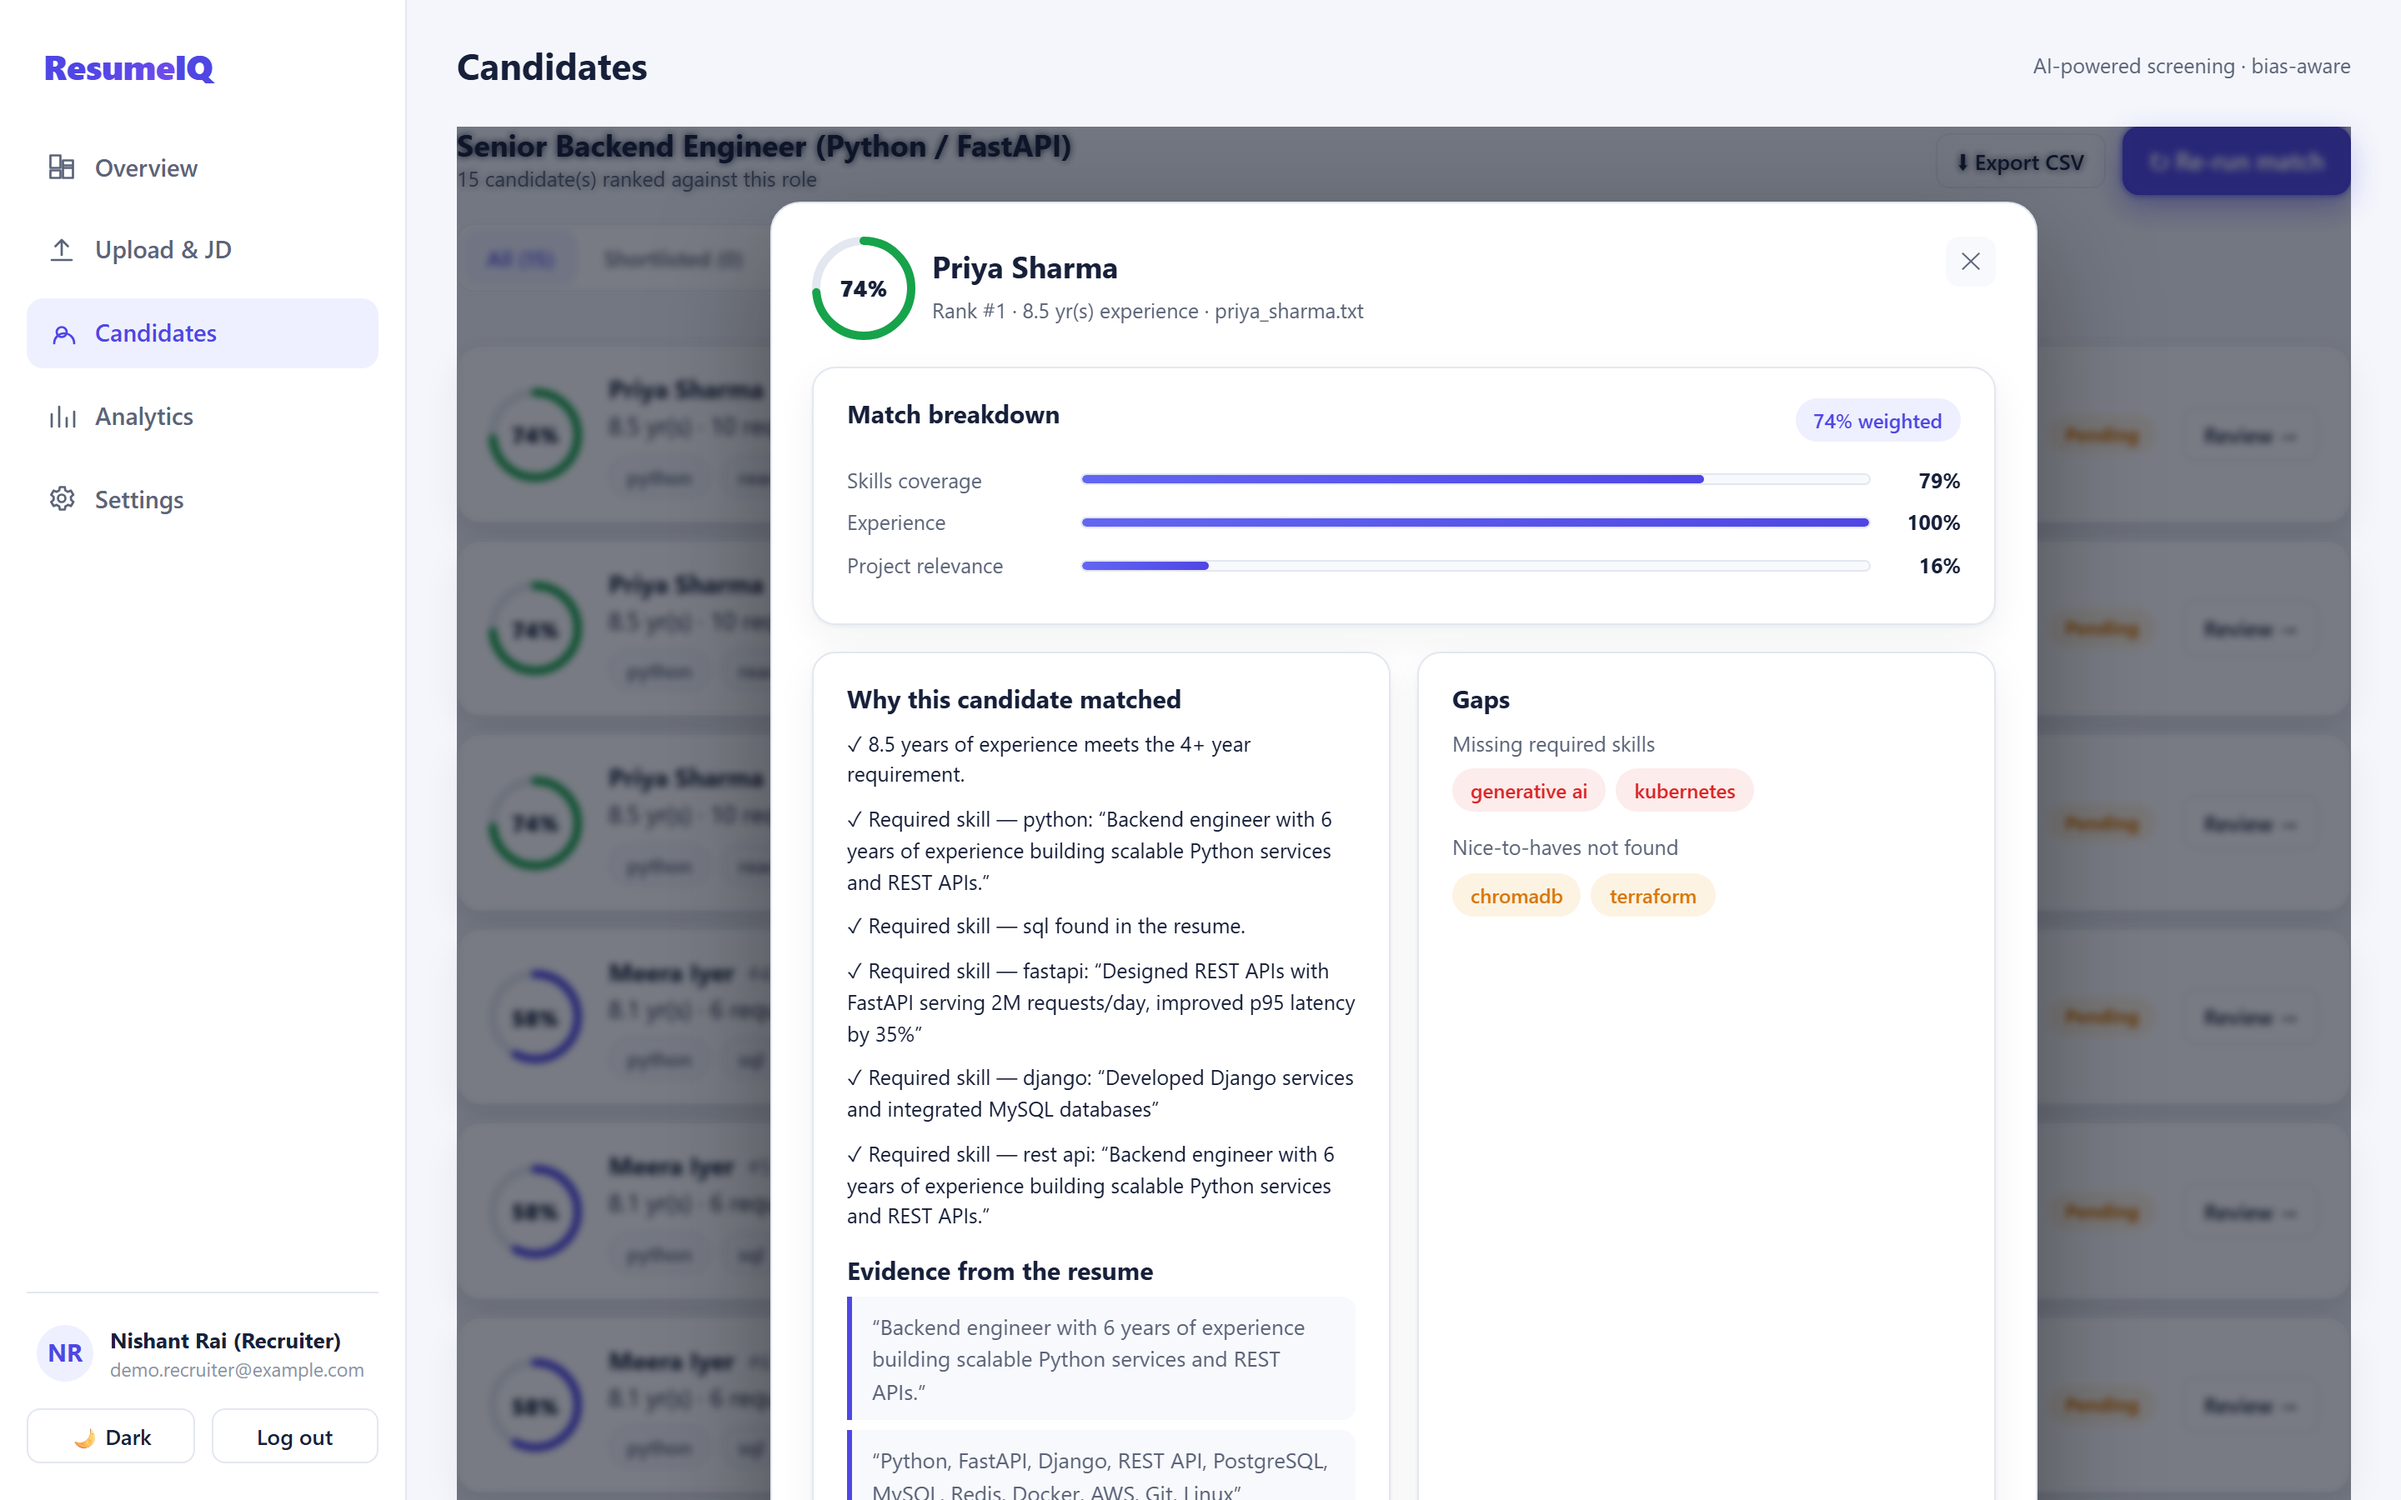
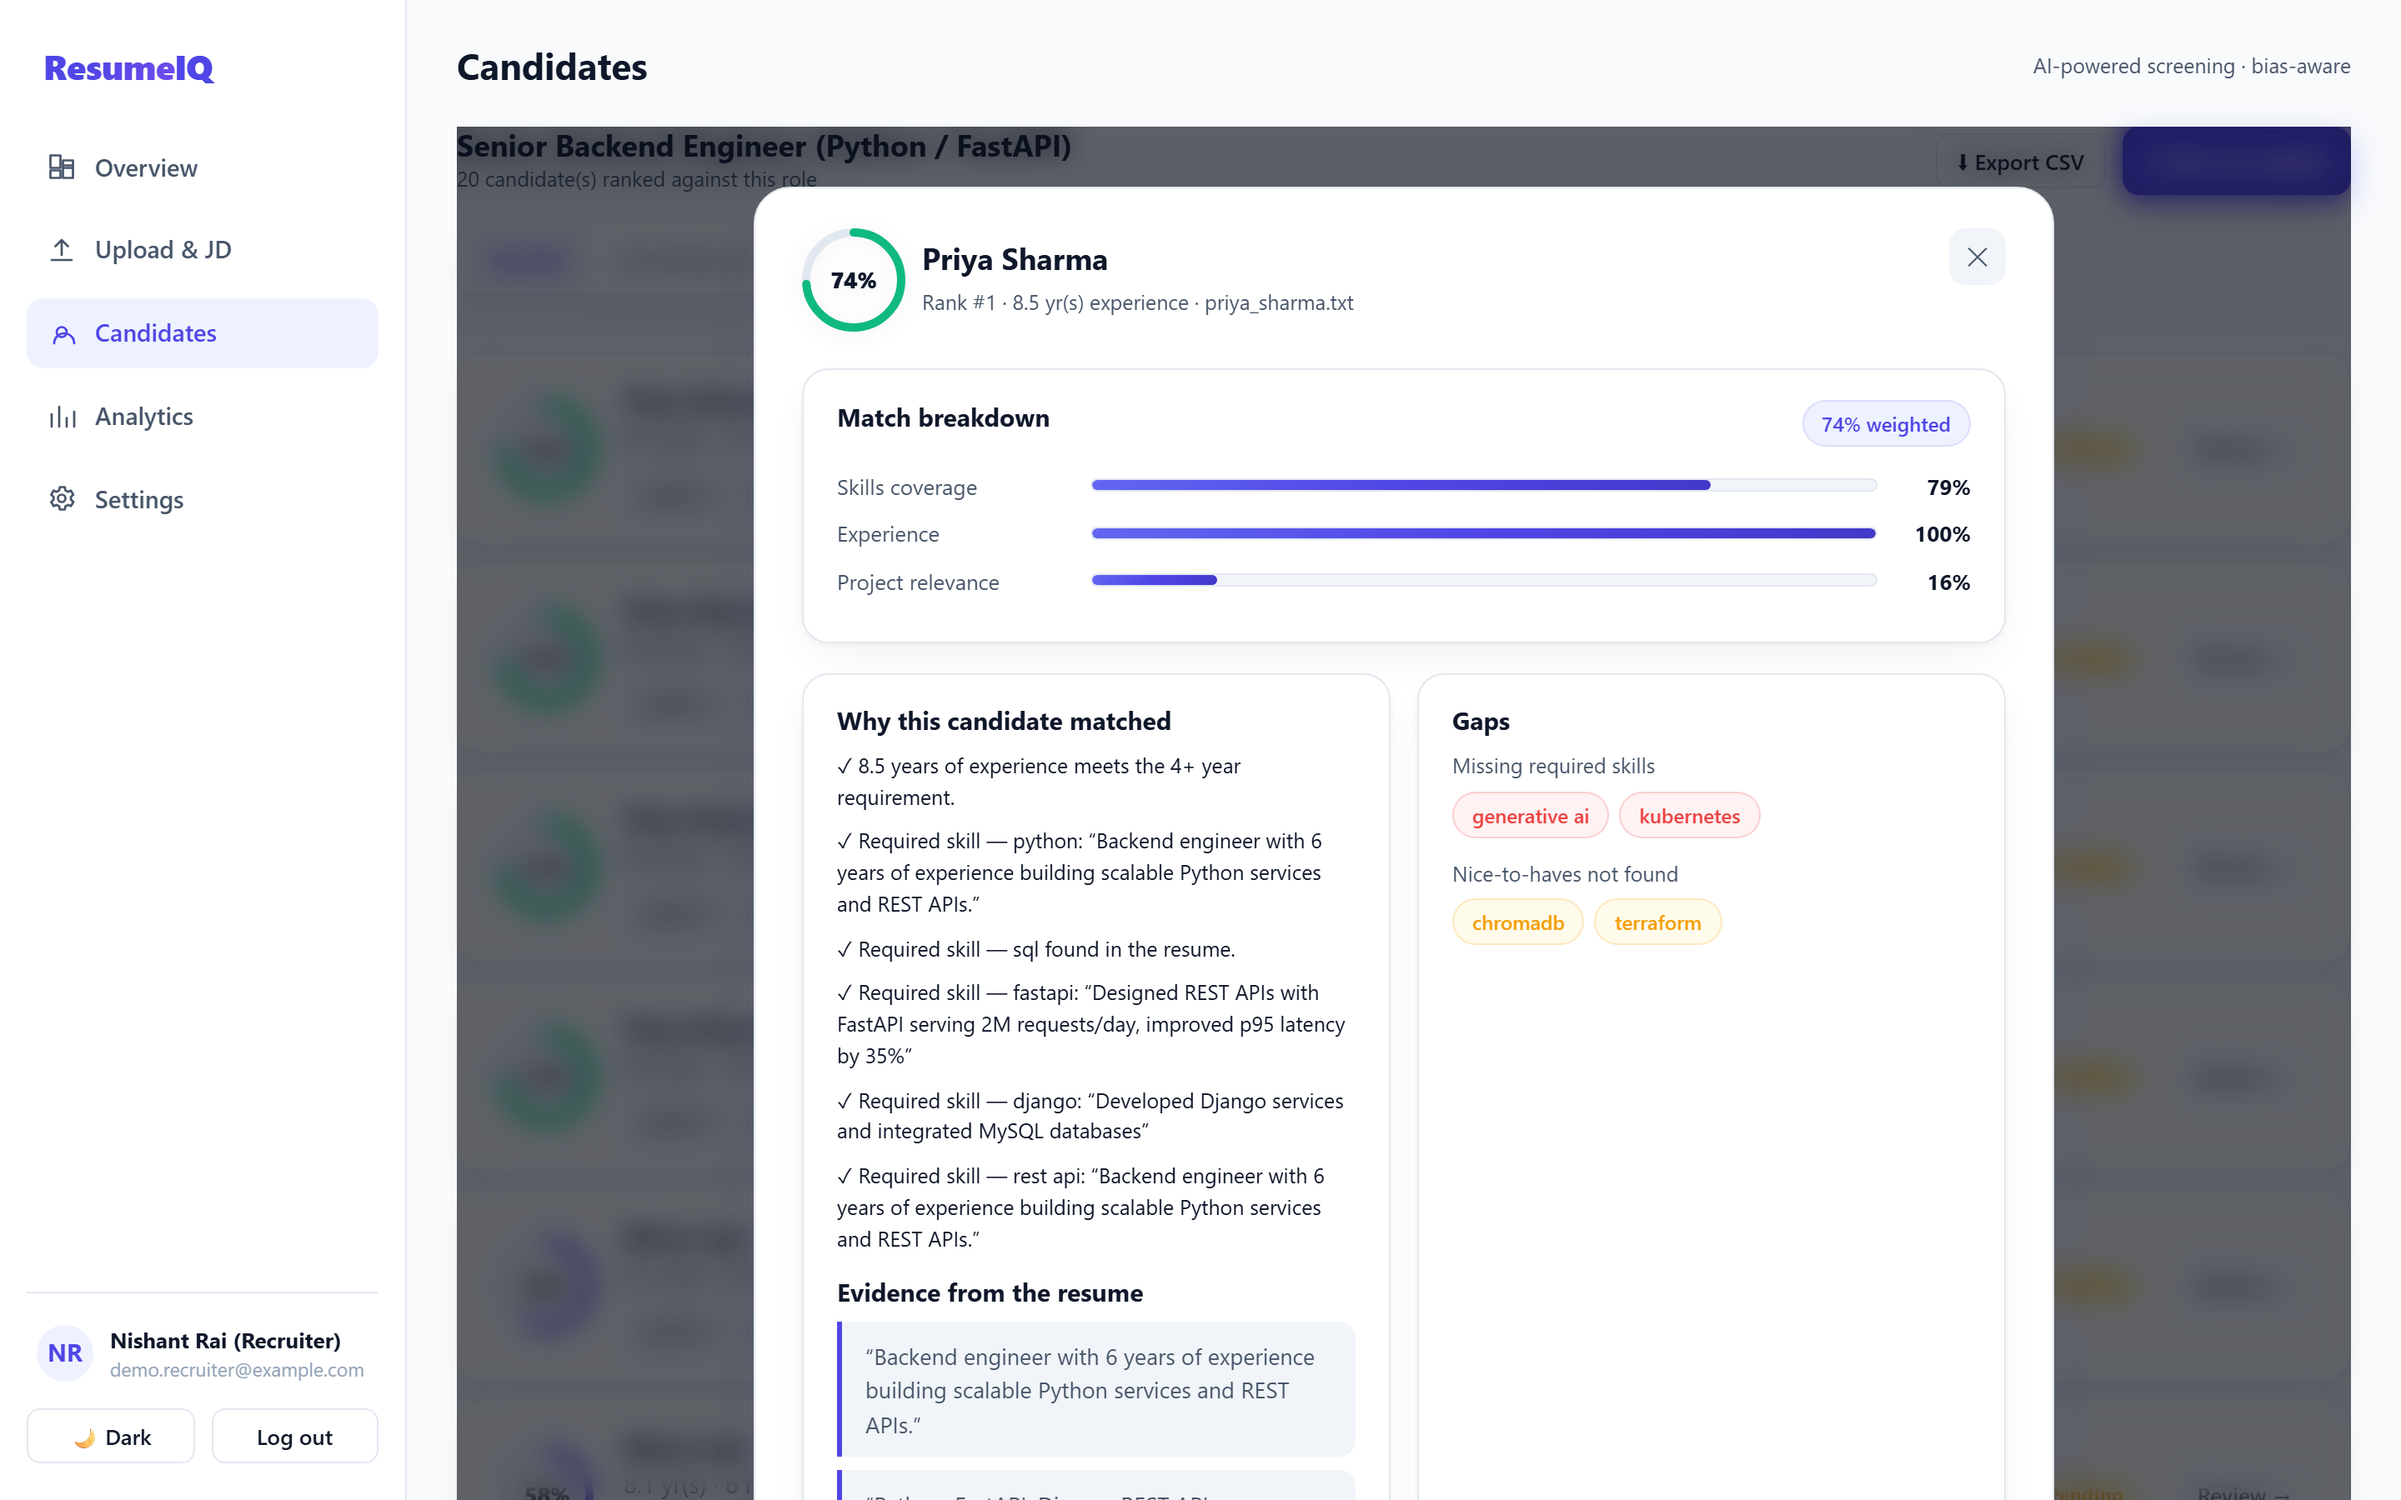
Enhance UI design system and update product screenshots

Changed region(s): [[0.1875, 0.0622, 1.0, 1.0], [0.5938, 0.4667, 0.7188, 0.6222]]

diff --git a/frontend/src/styles.css b/frontend/src/styles.css
@@ -1,45 +1,49 @@
 /* ===== ResumeIQ design system ===== */
 :root {
-  --bg: #f4f6fb;
+  --bg: #f8fafc;
   --panel: #ffffff;
-  --panel-2: #f8f9fd;
-  --border: #e3e7f0;
-  --text: #17203a;
-  --text-2: #5b6478;
-  --muted: #8b93a7;
+  --panel-2: #f1f5f9;
+  --border: #e2e8f0;
+  --text: #0f172a;
+  --text-2: #475569;
+  --muted: #94a3b8;
   --primary: #4f46e5;
   --primary-2: #6366f1;
-  --primary-soft: #eef0ff;
-  --success: #16a34a;
-  --success-soft: #e7f7ee;
-  --warn: #d97706;
-  --warn-soft: #fdf3e3;
-  --danger: #dc2626;
-  --danger-soft: #fdecec;
-  --shadow: 0 1px 2px rgba(23, 32, 58, 0.05), 0 8px 24px rgba(23, 32, 58, 0.06);
-  --radius: 14px;
+  --primary-gradient: linear-gradient(135deg, #6366f1 0%, #4f46e5 50%, #4338ca 100%);
+  --primary-soft: #eef2ff;
+  --success: #10b981;
+  --success-soft: #ecfdf5;
+  --warn: #f59e0b;
+  --warn-soft: #fffbeb;
+  --danger: #ef4444;
+  --danger-soft: #fef2f2;
+  --shadow: 0 1px 3px 0 rgba(0, 0, 0, 0.04), 0 10px 25px -5px rgba(15, 23, 42, 0.06);
+  --shadow-lg: 0 20px 40px -15px rgba(79, 70, 229, 0.15);
+  --radius: 16px;
   --sidebar-bg: #ffffff;
 }
 
 [data-theme="dark"] {
-  --bg: #0e1220;
-  --panel: #171d31;
-  --panel-2: #1d2440;
-  --border: #2a3252;
-  --text: #e8ecf8;
-  --text-2: #a7b0c8;
-  --muted: #6d7690;
+  --bg: #090d16;
+  --panel: #111827;
+  --panel-2: #1f2937;
+  --border: #2d3748;
+  --text: #f8fafc;
+  --text-2: #94a3b8;
+  --muted: #64748b;
   --primary: #818cf8;
   --primary-2: #6366f1;
-  --primary-soft: #232b52;
-  --success: #4ade80;
-  --success-soft: #14301f;
+  --primary-gradient: linear-gradient(135deg, #818cf8 0%, #6366f1 50%, #4f46e5 100%);
+  --primary-soft: #1e1b4b;
+  --success: #34d399;
+  --success-soft: #064e3b;
   --warn: #fbbf24;
-  --warn-soft: #33270e;
+  --warn-soft: #451a03;
   --danger: #f87171;
-  --danger-soft: #3a1a1e;
-  --shadow: 0 1px 2px rgba(0, 0, 0, 0.4), 0 10px 30px rgba(0, 0, 0, 0.35);
-  --sidebar-bg: #131829;
+  --danger-soft: #451216;
+  --shadow: 0 4px 6px -1px rgba(0, 0, 0, 0.4), 0 12px 30px -4px rgba(0, 0, 0, 0.5);
+  --shadow-lg: 0 25px 50px -12px rgba(0, 0, 0, 0.7);
+  --sidebar-bg: #0d111d;
 }
 
 * { box-sizing: border-box; }
@@ -192,77 +196,95 @@ img.avatar { object-fit: cover; border: 1px solid var(--border); }
 .small { font-size: 12.5px; }
 .mono { font-variant-numeric: tabular-nums; }
 
-.stat { padding: 16px 18px; display: flex; gap: 14px; align-items: center; }
-.stat .icon {
-  width: 42px; height: 42px; border-radius: 12px; display: flex; align-items: center;
-  justify-content: center; font-size: 19px; flex: none;
+.stat {
+  padding: 18px 20px; display: flex; gap: 16px; align-items: center;
+  position: relative; overflow: hidden;
 }
-.stat .label { color: var(--text-2); font-size: 12.5px; font-weight: 600; }
-.stat .value { font-size: 23px; font-weight: 800; letter-spacing: -0.5px; }
+.stat::before {
+  content: ""; position: absolute; top: 0; left: 0; right: 0; height: 3px;
+  background: var(--primary-gradient); opacity: 0; transition: opacity 0.2s ease;
+}
+.stat:hover::before { opacity: 1; }
+.stat .icon {
+  width: 46px; height: 46px; border-radius: 14px; display: flex; align-items: center;
+  justify-content: center; font-size: 21px; flex: none;
+  box-shadow: 0 4px 12px rgba(0, 0, 0, 0.05);
+}
+.stat .label { color: var(--text-2); font-size: 12px; font-weight: 700; text-transform: uppercase; letter-spacing: 0.5px; }
+.stat .value { font-size: 26px; font-weight: 800; letter-spacing: -0.6px; margin-top: 2px; }
 
 .chip {
-  display: inline-flex; align-items: center; padding: 3px 10px; border-radius: 999px;
+  display: inline-flex; align-items: center; padding: 4px 11px; border-radius: 999px;
   background: var(--primary-soft); color: var(--primary); font-size: 12px; font-weight: 600;
-  border: 1px solid transparent;
+  border: 1px solid rgba(79, 70, 229, 0.12); transition: all 0.15s ease;
 }
-.chip.green { background: var(--success-soft); color: var(--success); }
-.chip.amber { background: var(--warn-soft); color: var(--warn); }
-.chip.red { background: var(--danger-soft); color: var(--danger); }
+.chip:hover { transform: translateY(-1px); }
+.chip.green { background: var(--success-soft); color: var(--success); border-color: rgba(16, 185, 129, 0.2); }
+.chip.amber { background: var(--warn-soft); color: var(--warn); border-color: rgba(245, 158, 11, 0.2); }
+.chip.red { background: var(--danger-soft); color: var(--danger); border-color: rgba(239, 68, 68, 0.2); }
 .chip.gray { background: var(--panel-2); color: var(--text-2); border-color: var(--border); }
 
-.badge { padding: 3px 10px; border-radius: 999px; font-size: 11.5px; font-weight: 700; text-transform: capitalize; }
-.badge.shortlisted { background: var(--success-soft); color: var(--success); }
-.badge.pending { background: var(--warn-soft); color: var(--warn); }
-.badge.rejected { background: var(--danger-soft); color: var(--danger); }
+.badge {
+  display: inline-flex; align-items: center; gap: 5px;
+  padding: 4px 12px; border-radius: 999px; font-size: 11.5px; font-weight: 700; text-transform: capitalize;
+  letter-spacing: 0.2px;
+}
+.badge::before { content: "•"; font-size: 14px; line-height: 0; }
+.badge.shortlisted { background: var(--success-soft); color: var(--success); border: 1px solid rgba(16, 185, 129, 0.25); }
+.badge.pending { background: var(--warn-soft); color: var(--warn); border: 1px solid rgba(245, 158, 11, 0.25); }
+.badge.keep_reviewing { background: var(--primary-soft); color: var(--primary); border: 1px solid rgba(99, 102, 241, 0.25); }
+.badge.rejected { background: var(--danger-soft); color: var(--danger); border: 1px solid rgba(239, 68, 68, 0.25); }
 
-.progress { height: 7px; border-radius: 99px; background: var(--panel-2); overflow: hidden; border: 1px solid var(--border); }
-.progress > div { height: 100%; border-radius: 99px; background: linear-gradient(90deg, var(--primary-2), var(--primary)); transition: width 0.4s ease; }
+.progress { height: 8px; border-radius: 99px; background: var(--panel-2); overflow: hidden; border: 1px solid var(--border); }
+.progress > div { height: 100%; border-radius: 99px; background: var(--primary-gradient); transition: width 0.5s cubic-bezier(0.4, 0, 0.2, 1); }
 
 /* ===== Score ring ===== */
-.ring { position: relative; width: 56px; height: 56px; flex: none; }
+.ring { position: relative; width: 56px; height: 56px; flex: none; filter: drop-shadow(0 2px 6px rgba(0, 0, 0, 0.06)); }
 .ring svg { transform: rotate(-90deg); }
 .ring .track { stroke: var(--border); }
-.ring .bar { stroke: var(--primary); stroke-linecap: round; transition: stroke-dashoffset 0.5s ease; }
+.ring .bar { stroke: var(--primary); stroke-linecap: round; transition: stroke-dashoffset 0.6s cubic-bezier(0.4, 0, 0.2, 1); }
 .ring .value {
   position: absolute; inset: 0; display: flex; align-items: center; justify-content: center;
-  font-weight: 800; font-size: 13.5px;
+  font-weight: 800; font-size: 13.5px; letter-spacing: -0.3px;
 }
 
 /* ===== Candidate list ===== */
-.filters { display: flex; gap: 10px; flex-wrap: wrap; align-items: center; margin-bottom: 16px; }
-.segmented { display: inline-flex; background: var(--panel); border: 1px solid var(--border); border-radius: 10px; padding: 3px; gap: 2px; }
-.segmented button { border: 0; background: transparent; padding: 7px 14px; border-radius: 8px; color: var(--text-2); font-weight: 600; font-size: 13px; }
-.segmented button.on { background: var(--primary-soft); color: var(--primary); }
-.search-input { flex: 1; min-width: 180px; padding: 9px 12px; border: 1px solid var(--border); border-radius: 10px; background: var(--panel); outline: none; max-width: 320px; }
-.search-input:focus { border-color: var(--primary); box-shadow: 0 0 0 3px var(--primary-soft); }
-select.control { padding: 9px 12px; border: 1px solid var(--border); border-radius: 10px; background: var(--panel); outline: none; }
+.filters { display: flex; gap: 10px; flex-wrap: wrap; align-items: center; margin-bottom: 18px; }
+.segmented { display: inline-flex; background: var(--panel); border: 1px solid var(--border); border-radius: 12px; padding: 4px; gap: 3px; box-shadow: var(--shadow); }
+.segmented button { border: 0; background: transparent; padding: 7px 15px; border-radius: 9px; color: var(--text-2); font-weight: 600; font-size: 13px; transition: all 0.15s ease; }
+.segmented button.on { background: var(--primary-soft); color: var(--primary); font-weight: 700; }
+.search-input { flex: 1; min-width: 180px; padding: 10px 14px; border: 1px solid var(--border); border-radius: 12px; background: var(--panel); outline: none; max-width: 340px; transition: all 0.15s ease; }
+.search-input:focus { border-color: var(--primary); box-shadow: 0 0 0 3px rgba(99, 102, 241, 0.18); }
+select.control { padding: 10px 14px; border: 1px solid var(--border); border-radius: 12px; background: var(--panel); outline: none; transition: all 0.15s ease; }
 
 .candidate-row {
-  display: grid; grid-template-columns: auto 1fr auto auto; gap: 16px; align-items: center;
-  padding: 14px 18px; cursor: pointer; transition: border-color 0.15s ease, transform 0.1s ease;
+  display: grid; grid-template-columns: auto 1fr auto auto; gap: 18px; align-items: center;
+  padding: 16px 22px; cursor: pointer; transition: all 0.2s cubic-bezier(0.4, 0, 0.2, 1);
+  border-left: 4px solid transparent;
 }
-.candidate-row:hover { border-color: var(--primary); }
-.candidate-row .meta { display: flex; gap: 6px; flex-wrap: wrap; margin-top: 6px; }
-.candidate-row .name b { font-size: 15px; }
-.candidate-row .name .sub { color: var(--muted); font-size: 12.5px; margin-top: 1px; }
+.candidate-row:hover { border-color: var(--border); border-left-color: var(--primary); box-shadow: var(--shadow-lg); transform: translateY(-2px); }
+.candidate-row .meta { display: flex; gap: 6px; flex-wrap: wrap; margin-top: 8px; }
+.candidate-row .name b { font-size: 15.5px; letter-spacing: -0.2px; }
+.candidate-row .name .sub { color: var(--text-2); font-size: 13px; margin-top: 2px; }
 
 /* ===== Modal ===== */
 .modal-backdrop {
-  position: fixed; inset: 0; background: rgba(10, 14, 30, 0.55); z-index: 50;
-  display: flex; align-items: flex-start; justify-content: center; padding: 5vh 16px;
-  backdrop-filter: blur(2px); overflow-y: auto;
+  position: fixed; inset: 0; background: rgba(9, 13, 22, 0.65); z-index: 50;
+  display: flex; align-items: flex-start; justify-content: center; padding: 4vh 16px;
+  backdrop-filter: blur(8px) saturate(180%); overflow-y: auto;
 }
 .modal {
-  width: 100%; max-width: 760px; background: var(--panel); border-radius: 18px;
-  border: 1px solid var(--border); box-shadow: 0 24px 70px rgba(0, 0, 0, 0.35);
-  animation: pop 0.18s ease;
+  width: 100%; max-width: 780px; background: var(--panel); border-radius: 22px;
+  border: 1px solid var(--border); box-shadow: var(--shadow-lg);
+  animation: pop 0.22s cubic-bezier(0.16, 1, 0.3, 1); overflow: hidden;
 }
-@keyframes pop { from { transform: translateY(10px) scale(0.985); opacity: 0; } }
-.modal-head { display: flex; justify-content: space-between; align-items: flex-start; padding: 20px 24px 0; }
-.modal-body { padding: 16px 24px 24px; display: flex; flex-direction: column; gap: 16px; }
-.close-x { border: 0; background: var(--panel-2); border-radius: 8px; width: 30px; height: 30px; color: var(--text-2); font-size: 15px; }
-.evidence { border-left: 3px solid var(--primary); background: var(--panel-2); padding: 8px 12px; border-radius: 0 8px 8px 0; font-size: 13px; color: var(--text-2); margin-top: 6px; }
-.subbar { display: grid; grid-template-columns: 130px 1fr 44px; gap: 10px; align-items: center; font-size: 12.5px; color: var(--text-2); margin-bottom: 7px; }
+@keyframes pop { from { transform: translateY(16px) scale(0.97); opacity: 0; } }
+.modal-head { display: flex; justify-content: space-between; align-items: flex-start; padding: 24px 28px 4px; }
+.modal-body { padding: 18px 28px 28px; display: flex; flex-direction: column; gap: 18px; }
+.close-x { border: 0; background: var(--panel-2); border-radius: 10px; width: 34px; height: 34px; color: var(--text-2); font-size: 16px; transition: all 0.15s ease; display: flex; align-items: center; justify-content: center; }
+.close-x:hover { background: var(--border); color: var(--text); }
+.evidence { border-left: 3.5px solid var(--primary); background: var(--panel-2); padding: 10px 14px; border-radius: 0 10px 10px 0; font-size: 13.5px; color: var(--text-2); margin-top: 8px; line-height: 1.5; }
+.subbar { display: grid; grid-template-columns: 140px 1fr 44px; gap: 12px; align-items: center; font-size: 13px; color: var(--text-2); margin-bottom: 9px; }
 .subbar .mono { text-align: right; color: var(--text); font-weight: 700; }
 
 /* ===== Upload ===== */
